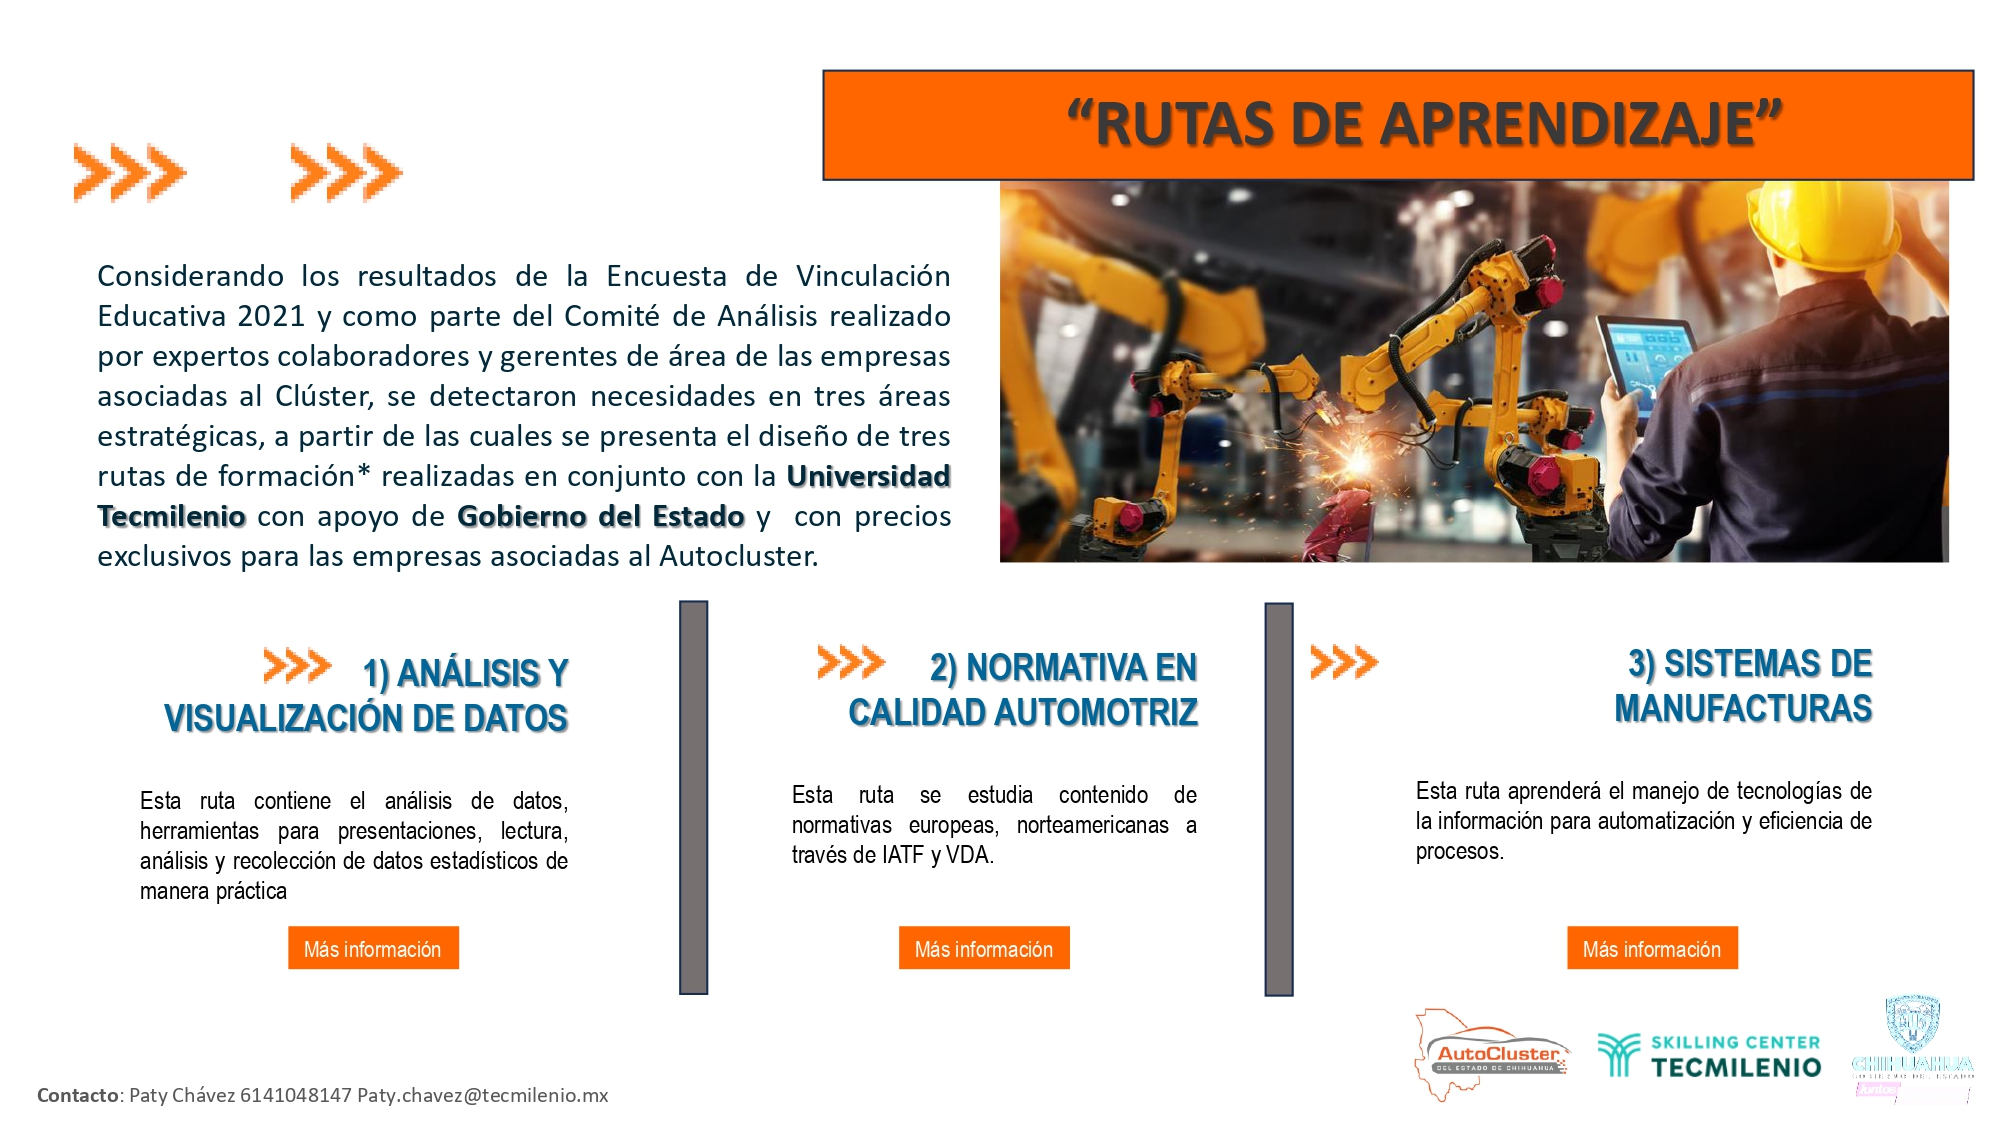
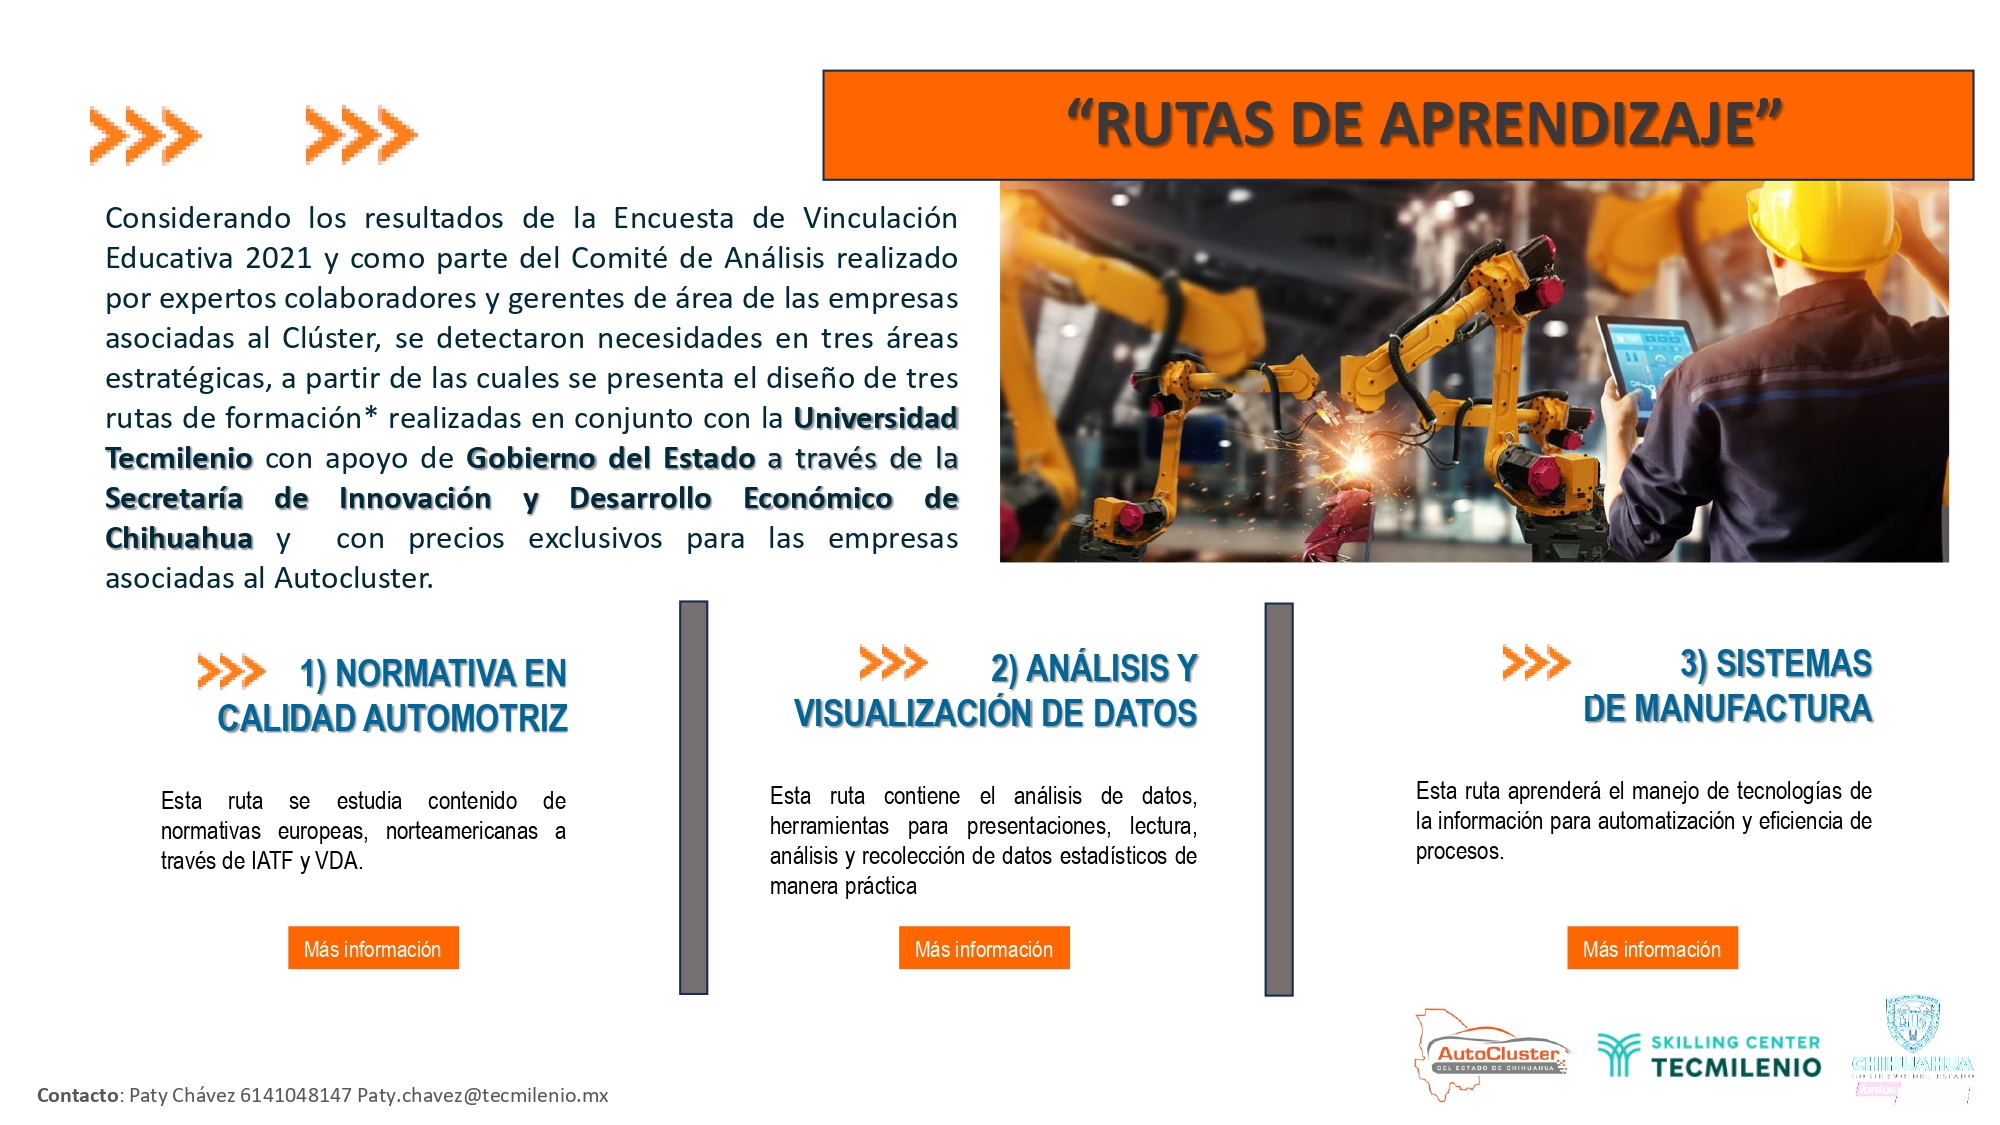
correciones

diff --git a/index.html b/index.html
@@ -9,8 +9,8 @@
 <body>
     <div class="contenedor-imagen">
         <img src="./img/principal.jpg" alt="Descripción de la imagen">
-        <a href="./pages/analisis.html"><button class="boton-superpuesto analisis"></button>
-        <a href="./pages/normativa.html"><button class="boton-superpuesto normativa"></button>
+        <a href="./pages/normativa.html"><button class="boton-superpuesto analisis"></button>
+        <a href="./pages/analisis.html"><button class="boton-superpuesto normativa"></button>
         <a href="./pages/sistemas.html"><button class="boton-superpuesto sistemas"></button>
     </div>
 
